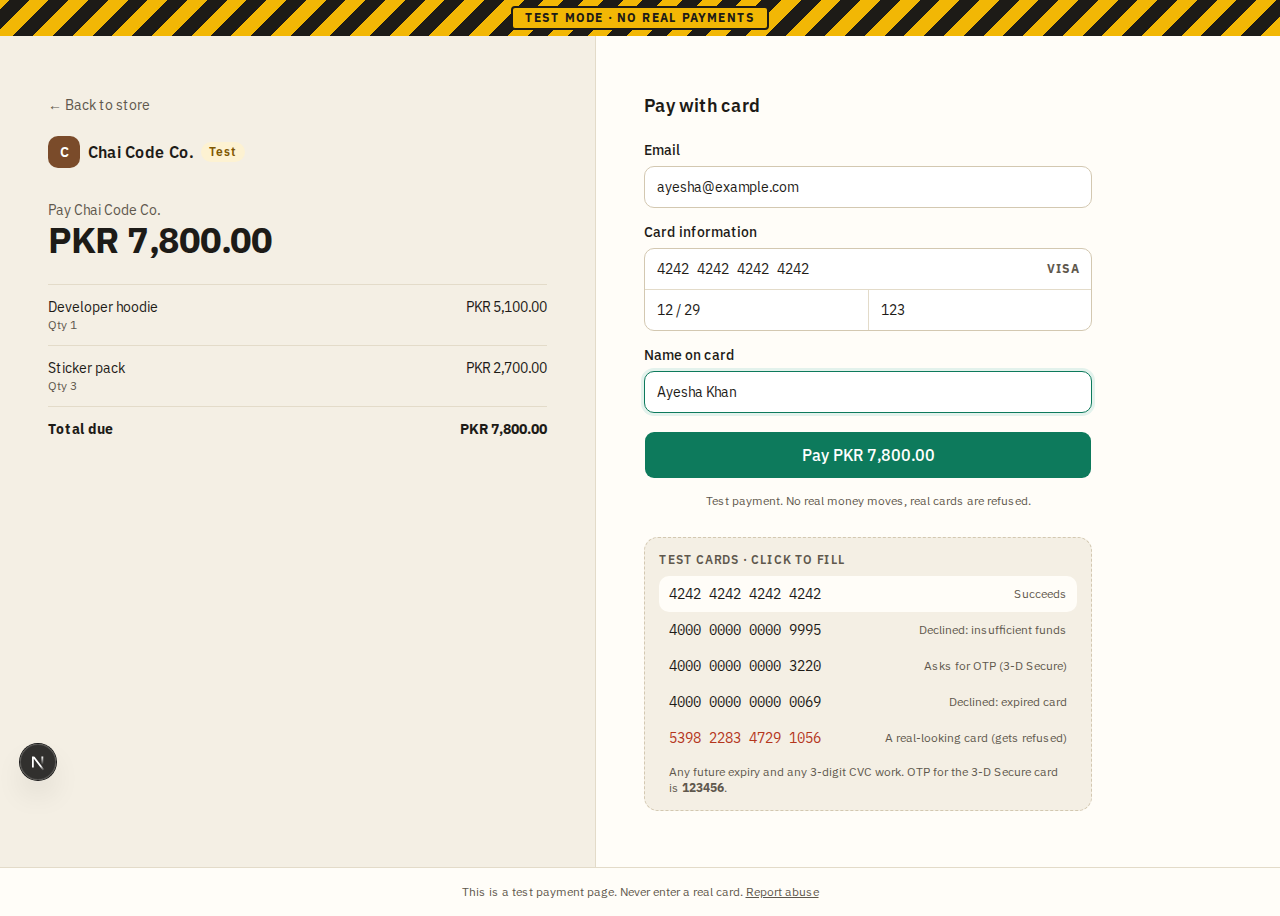
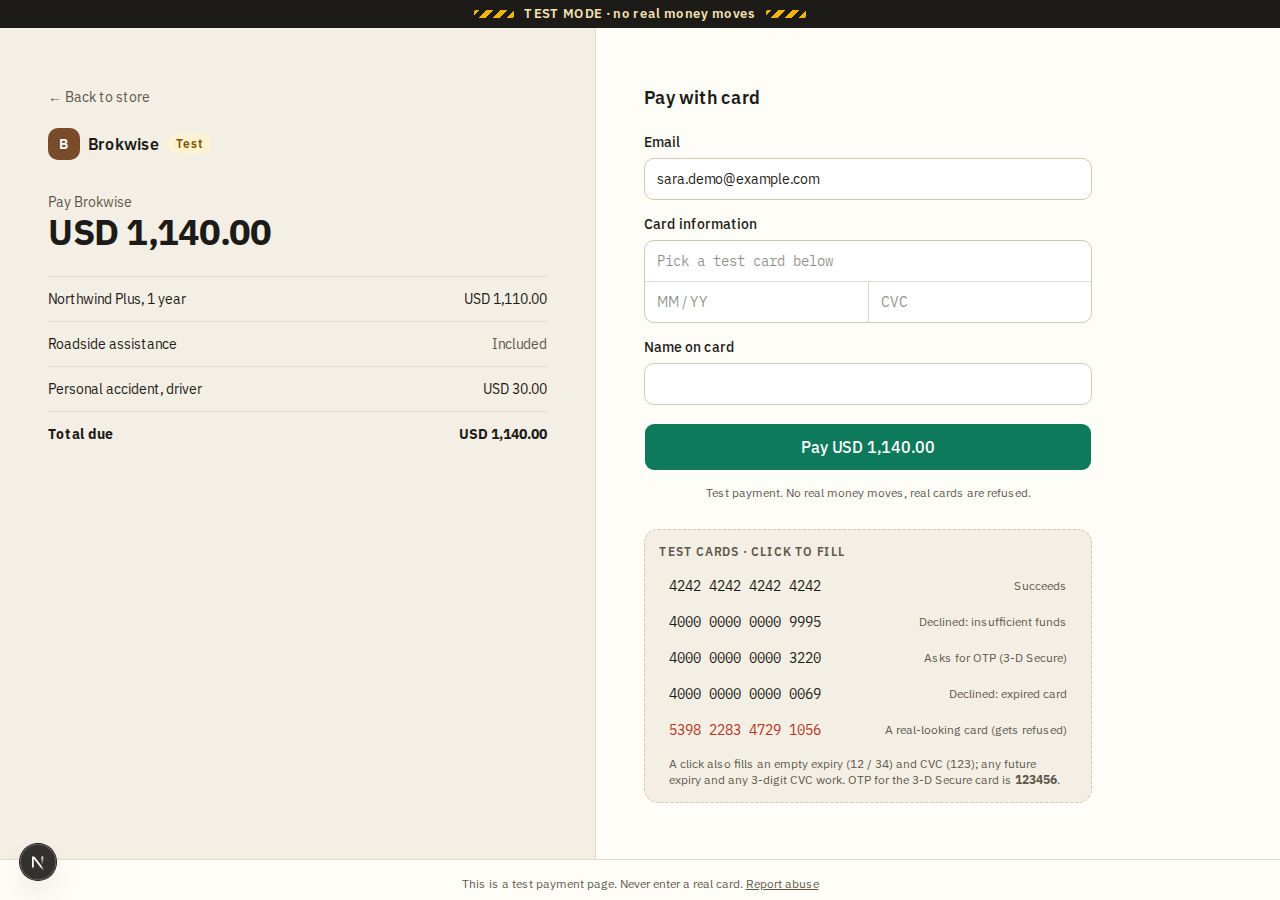
docs(kb): overview, payments, payment detail, checkout and webhooks after the redesign
New screenshots at desktop and phone width, and the engineering decisions
behind the overview sums and keyset positions.

diff --git a/.claude/knowledgebase/pages/payment-detail.md b/.claude/knowledgebase/pages/payment-detail.md
@@ -3,25 +3,40 @@
 **Area:** dashboard · **Who uses it:** merchant · **Reached from:** Payments → a payment
 
 ## What this page is for
-Everything about one payment: what happened, when, and what the merchant can do next.
+Everything about one payment: what happened, when, and what the merchant can do next. It is meant to be read first and acted on second.
 
 ## What it shows
-- The amount, status and IDs (payment, checkout session, customer).
-- **Details:** card brand and last 4, which test card, decline reason if any.
-- **Timeline:** every step (created, OTP asked, succeeded or failed, refunded, dispute opened or closed) with times.
+- **Header:**
+  - the amount and status, plus how much was refunded when part of it was
+  - the description, customer and date
+  - two actions: **Refund** (a secondary button) and **More**
+- **Timeline** (wide, on the left): every step with its time (created, OTP asked, succeeded or failed, refunded, dispute opened or closed).
 - **Refunds:** each refund with amount, reason and time.
-- **Webhooks for this payment:** every event sent for it and whether it was delivered.
+- **Webhooks for this payment:** every event sent for it and its delivery status.
+- **Details** (on the right):
+  - customer
+  - card brand and last 4
+  - which test card was used
+  - decline reason, if any
+  - refunded so far
+  - the payment ID with a **Copy** button
+  - the checkout session ID
+- **What was bought:** the line items, "Included" for a line that costs nothing, and the total.
 - An open dispute panel when the payment is disputed.
 
 ## What the user can do
-- **Refund this payment:** choose an amount (defaults to the amount left) and a reason. A toast confirms that a `refund.created` webhook is on its way.
-- **Simulate dispute:** opens a dispute for the amount left, as if the customer's bank challenged it.
-- **Answer a dispute:** "Win" (the payment returns to its previous state) or "Accept and lose".
+- **Refund:** opens a dialog.
+  - The amount starts **empty**, so a stray click refunds nothing. "Full USD X" fills in what is left; less than that is a partial refund.
+  - The merchant picks a reason, then Refund or Cancel.
+  - A toast confirms that a `refund.created` webhook is on its way, and the dialog closes.
+- **More → Simulate dispute:** asks for confirmation first, then opens a dispute for the amount left, as if the customer's bank challenged it.
+- **Answer a dispute:** "Submit evidence and win" (the payment goes back to its previous state) or "Accept and lose", which asks for confirmation first.
+- Copy the payment ID.
 
 ## Rules
 - The system shall offer refunds only on succeeded or partially refunded payments, and never more than the amount left.
 - The system shall block refunds while a dispute is open.
-- The system shall keep the refund amount box in step with the amount left after each refund.
+- The system shall start the refund amount empty each time the dialog opens.
 - The system shall show a 404 page for a payment that belongs to another project.
 
 ## Open questions
@@ -29,3 +44,4 @@ Everything about one payment: what happened, when, and what the merchant can do 
 
 ## Screenshots
 ![Payment detail](../assets/screenshots/dashboard/payment-detail.png)
+![Refund dialog](../assets/screenshots/dashboard/refund-dialog.png)

diff --git a/.claude/knowledgebase/pages/overview.md b/.claude/knowledgebase/pages/overview.md
@@ -3,18 +3,33 @@
 **Area:** dashboard · **Who uses it:** merchant · **Reached from:** sidebar "Overview", or opening a project
 
 ## What this page is for
-A one-glance summary of the project's test payments.
+A one-glance summary of the project's test payments over a date range: how much money came in, and what needs looking at.
 
 ## What it shows
-- Totals: **Net volume** (paid minus refunded), **Succeeded**, **Refunded**, **Failed**, **Needs OTP** and **Disputed**.
-- **Recent payments** and **Recent webhooks** lists.
+- A **date range** picker: last 7, 14 (the default) or 30 days. The range is part of the address (`?range=7d`), so a link keeps it.
+- Three money tiles for payments made in the range:
+  - **Net volume**, after refunds and lost disputes.
+  - **Successful payments**: the amount captured, how many, and the success rate ("6 payments · 75% of attempts"). Attempts are successful plus declined payments; payments still waiting for an OTP are not counted yet.
+  - **Refunded and disputed**: money that left (refunds plus lost disputes), with the counts ("2 refunds · 1 dispute lost · 1 open dispute on hold"). Open disputes are counted but their money is on hold, not taken off.
+- **Successful volume per day**: one bar per day of the range, today's bar darker. Screen readers hear the total and the best day.
+- **Needs attention**: counts only, each with a link to the list behind it.
+  - Disputes waiting for a response, with the earliest respond-by date. These show whatever the range, because they have a deadline.
+  - Failing webhook deliveries.
+  - Payments waiting for OTP.
+  - Declines in the range.
+- **Latest payments**: the 5 newest, with description (the first line item's name), status, customer and amount.
 - For a new project, an empty state: "Create a checkout session with your secret key and pay it with a test card."
 
 ## What the user can do
-- Follow the empty-state hint to the developers page, or open recent activity.
+- Change the range.
+- Open a tile, an attention item or a latest payment.
+- Follow the empty-state hint to the developers page.
 
 ## Rules
 - The system shall count only this project's payments.
+- The system shall count money by the day the payment was made. A later refund or dispute counts against its payment, so the tiles always add up: Net volume = Successful payments − Refunded and disputed.
+- The system shall make the daily bars add up to the Successful payments amount.
+- The system shall use Pakistan (Karachi) calendar days for the range and the bars.
 - The system shall show amounts in the project's currency.
 
 ## Open questions
@@ -22,3 +37,4 @@ A one-glance summary of the project's test payments.
 
 ## Screenshots
 ![Overview](../assets/screenshots/dashboard/overview.png)
+![Overview on a phone](../assets/screenshots/dashboard/overview-phone.png)

diff --git a/.claude/knowledgebase/pages/payments.md b/.claude/knowledgebase/pages/payments.md
@@ -1,27 +1,40 @@
 # Payments
 
-**Area:** dashboard · **Who uses it:** merchant · **Reached from:** sidebar "Payments"
+**Area:** dashboard · **Who uses it:** merchant · **Reached from:** sidebar "Payments", the overview
 
 ## What this page is for
-Every test payment, newest first. Open one to see its timeline.
+Every test payment, newest first. Open one to see its timeline and webhooks.
 
 ## What it shows
-- A table of payments: amount, status badge, customer, card (brand and last 4), date and payment ID.
-- Status filters: All, Succeeded, Failed, Partially refunded, Refunded, Needs OTP, Disputed.
-- Pages of results with "next / previous".
+- A table with these columns:
+  - **Description**: the first line item's name, with the payment ID in small type underneath.
+  - **Status**.
+  - **Customer**: name and email.
+  - **Card**: last 4 digits.
+  - **Date**.
+  - **Amount**: right-aligned, with "USD 200.00 refunded" underneath when part of it was refunded.
+- On a phone each payment is a stacked card, with the description and amount on top. The page never scrolls sideways.
+- Status filters with counts: All, Succeeded, Declined, Partly refunded, Refunded, Waiting for OTP, Disputed. "Dispute lost" appears once there is one.
+- A **search** box and a **date range**: all time, or the last 7, 14 or 30 days.
+- "Showing 26–50 of 312", with Previous and Next.
 
 ## What the user can do
-- Filter by status; filter to one customer (from the customers page).
-- Page through older payments.
+- Filter by status, search, and pick a date range. All of these live in the address, so they can be shared and they survive a reload. The search looks at:
+  - part of the customer's email or name
+  - a whole `pay_` ID
+- Filter to one customer, from the customers page or a payment's customer link.
+- Page through the results.
 - Open a payment's detail.
 
 ## Rules
 - The system shall list only this project's payments, newest first.
-- The system shall keep paging stable while new payments arrive.
-- The system shall show "No payments match this filter" when a filter has no results.
+- The system shall keep paging stable while new payments arrive, and the counts on the filters shall match what each filter shows.
+- The system shall treat the search as plain text, so `%` or `_` match those characters only.
+- The system shall show "No payments match these filters" when nothing matches.
 
 ## Open questions
-- None.
+- Merchant references (for example a Brokwise quote number) are not stored on a checkout yet, so they cannot be shown or searched.
 
 ## Screenshots
 ![Payments](../assets/screenshots/dashboard/payments.png)
+![Payments on a phone](../assets/screenshots/dashboard/payments-phone.png)

diff --git a/.claude/knowledgebase/pages/hosted-checkout.md b/.claude/knowledgebase/pages/hosted-checkout.md
@@ -6,11 +6,12 @@
 PaySandbox's own payment page. The customer pays a checkout session with a test card, then goes back to the merchant's site.
 
 ## What it shows
-- The TEST MODE banner, always.
+- The TEST MODE strip, always: a slim dark bar (28 px) with hazard stripes either side of "TEST MODE · no real money moves".
 - The merchant's name with its initial (always a capital letter) and the order summary: line items and the total in the project's currency. A line shows "Qty N" only when N is more than 1, and a line that costs nothing shows "Included".
 - A card form (email, name, card number, expiry, CVC) and a picker with the main test cards.
 - After paying: a success screen with a button back to the merchant, or a decline screen that leads with a plain sentence (for example "Your bank declined this card: not enough funds. Try another card."), shows the raw codes as small "For developers" text, and offers "Try another card".
 - For card 3220: the simulated "Sandbox Bank" OTP screen.
+- **On a phone** the card form comes first. The order is folded into one line at the top, "Order summary · 3 items  USD 1,140.00", which opens to show the lines. The success or decline screen replaces the page, so it is visible without scrolling.
 - An "already paid" page for a paid session and an "expired" page for an expired one, each linking back to the merchant.
 - "Checkout not found" for a wrong address.
 
@@ -33,3 +34,5 @@ PaySandbox's own payment page. The customer pays a checkout session with a test 
 ## Screenshots
 ![Hosted checkout](../assets/screenshots/checkout/checkout.png)
 ![OTP screen](../assets/screenshots/checkout/otp.png)
+![Checkout on a phone](../assets/screenshots/checkout/checkout-phone.png)
+![Result on a phone](../assets/screenshots/checkout/result-phone.png)

diff --git a/.claude/knowledgebase/overview/engineering-highlights.md b/.claude/knowledgebase/overview/engineering-highlights.md
@@ -2,6 +2,13 @@
 
 Decisions worth knowing when reading the code, newest first.
 
+## Overview numbers that always add up, and "Showing a–b of n" on keyset pages (2026-11-12)
+- **One date per payment.** The overview counts money by the day the payment was made. A refund or lost dispute that comes later counts against that payment, so for any range Net volume = Successful payments − Refunded and disputed, exactly. The sums and the "add up" check are pure functions (`moneyTotals`, `dailySeries` in `lib/dashboard/overview.ts`) with their own tests.
+- **Karachi days in SQL, whatever the server's time zone.** Daily bars group by `to_char((created_at at time zone 'UTC') + interval '5 hours', 'YYYY-MM-DD')`. Pakistan has no daylight saving, so a fixed offset is exact. It also matches `lib/time.ts`.
+- **Positions without offsets.** The payments list keeps keyset paging, which stays stable while new payments arrive. One extra `count(*) filter (where …)` query counts the matching rows ahead of the page, which gives "Showing 26–50 of 312". Previous uses an `after` cursor: fetch the rows just newer than the page in ascending order, then reverse them.
+- **Search is text, not a pattern.** `%`, `_` and `\` are escaped before `ILIKE`, and a whole `pay_` id is an exact match.
+- **Phone layouts without JavaScript.** On the checkout, the folded order summary is a native `<details>`. The result screen hides the summary with a CSS `:has()` group variant, so no client state was added.
+
 ## Own UI kit, no component library (2026-11-12)
 The interface is built from PaySandbox's own components in `apps/web/src/components/ui`, not shadcn/ui or Base UI.
 

diff --git a/.claude/knowledgebase/flows/disputes.md b/.claude/knowledgebase/flows/disputes.md
@@ -1,6 +1,6 @@
 # Disputes
 
-1. A dispute opens in one of two ways: the customer paid with **4000 0000 0000 0259** (a dispute opens about a minute after the payment succeeds), or the merchant clicks **Simulate dispute** on a payment.
+1. A dispute opens in one of two ways: the customer paid with **4000 0000 0000 0259** (a dispute opens about a minute after the payment succeeds), or the merchant picks **More → Simulate dispute** on a payment and confirms.
 2. The payment becomes **disputed**, the dispute is for the amount left, the respond-by date is 7 days later, and `dispute.created` is sent.
 3. The merchant answers on the payment page:
    - **Win:** the payment goes back to the state it had before.

diff --git a/.claude/knowledgebase/flows/refunds.md b/.claude/knowledgebase/flows/refunds.md
@@ -1,7 +1,7 @@
 # Refunds
 
-1. The merchant opens a succeeded payment and chooses **Refund this payment** (or their server asks for a refund with the secret key).
-2. The amount defaults to the amount left; the merchant can lower it for a partial refund, and picks a reason.
+1. The merchant opens a succeeded payment and clicks **Refund** (or their server asks for a refund with the secret key).
+2. In the dialog the amount starts empty: the merchant types an amount or clicks "Full …" for what is left, and picks a reason.
 3. PaySandbox records the refund, updates the payment to **partially refunded** or **refunded**, adds it to the timeline and sends `refund.created`.
 
 ## Rules

diff --git a/.claude/knowledgebase/pages/disputes.md b/.claude/knowledgebase/pages/disputes.md
@@ -7,7 +7,7 @@ All simulated chargebacks, open ones first. An unanswered dispute is lost automa
 
 ## What it shows
 - Each dispute's amount, reason (for example fraudulent, or product not received), customer, status (needs response, won, lost) and respond-by date.
-- An empty state explaining how to get one: pay with card 4000 0000 0000 0259, or use "Simulate dispute" on a payment.
+- An empty state explaining how to get one: pay with card 4000 0000 0000 0259, or use More → "Simulate dispute" on a payment.
 
 ## What the user can do
 - Open the payment to answer the dispute: win it or accept and lose it. A toast confirms that a `dispute.closed` webhook is on its way.

diff --git a/.claude/knowledgebase/pages/README.md b/.claude/knowledgebase/pages/README.md
@@ -1,6 +1,6 @@
 # Pages
 
-Every screen of PaySandbox, one file each. All dashboard pages belong to one project; the project switcher at the top of the sidebar moves between a user's projects and keeps the same section open.
+Every screen of PaySandbox, one file each. All dashboard pages belong to one project; the header shows the project (a switcher when there are several, keeping the same section open), a "Test mode" pill and an account menu (initials: who is signed in, your projects, sign out).
 
 | Page | Who | Address |
 |---|---|---|

diff --git a/.claude/knowledgebase/pages/webhooks.md b/.claude/knowledgebase/pages/webhooks.md
@@ -14,7 +14,7 @@ Set the address that receives events, manage its signing secret, and see every e
 
 ## What the user can do
 - Save the endpoint URL ("Endpoint saved").
-- Reveal or copy the signing secret; **roll** it (the old secret keeps working for 24 hours).
+- Reveal or copy the signing secret; **roll** it. Rolling is a quiet red action that asks for confirmation first; the old secret keeps working for 24 hours.
 - Re-enable a disabled endpoint.
 - Send a test event; it arrives in a few seconds.
 - Open an event's detail.

diff --git a/.claude/knowledgebase/pages/projects.md b/.claude/knowledgebase/pages/projects.md
@@ -1,6 +1,6 @@
 # Projects
 
-**Area:** account · **Who uses it:** merchant · **Reached from:** after sign-in, or the project switcher
+**Area:** account · **Who uses it:** merchant · **Reached from:** after sign-in, the account menu's "Your projects", or the PaySandbox logo
 
 ## What this page is for
 Lists the user's projects (merchant accounts) and creates new ones. Each project is one integration with its own keys, webhook address and data.
